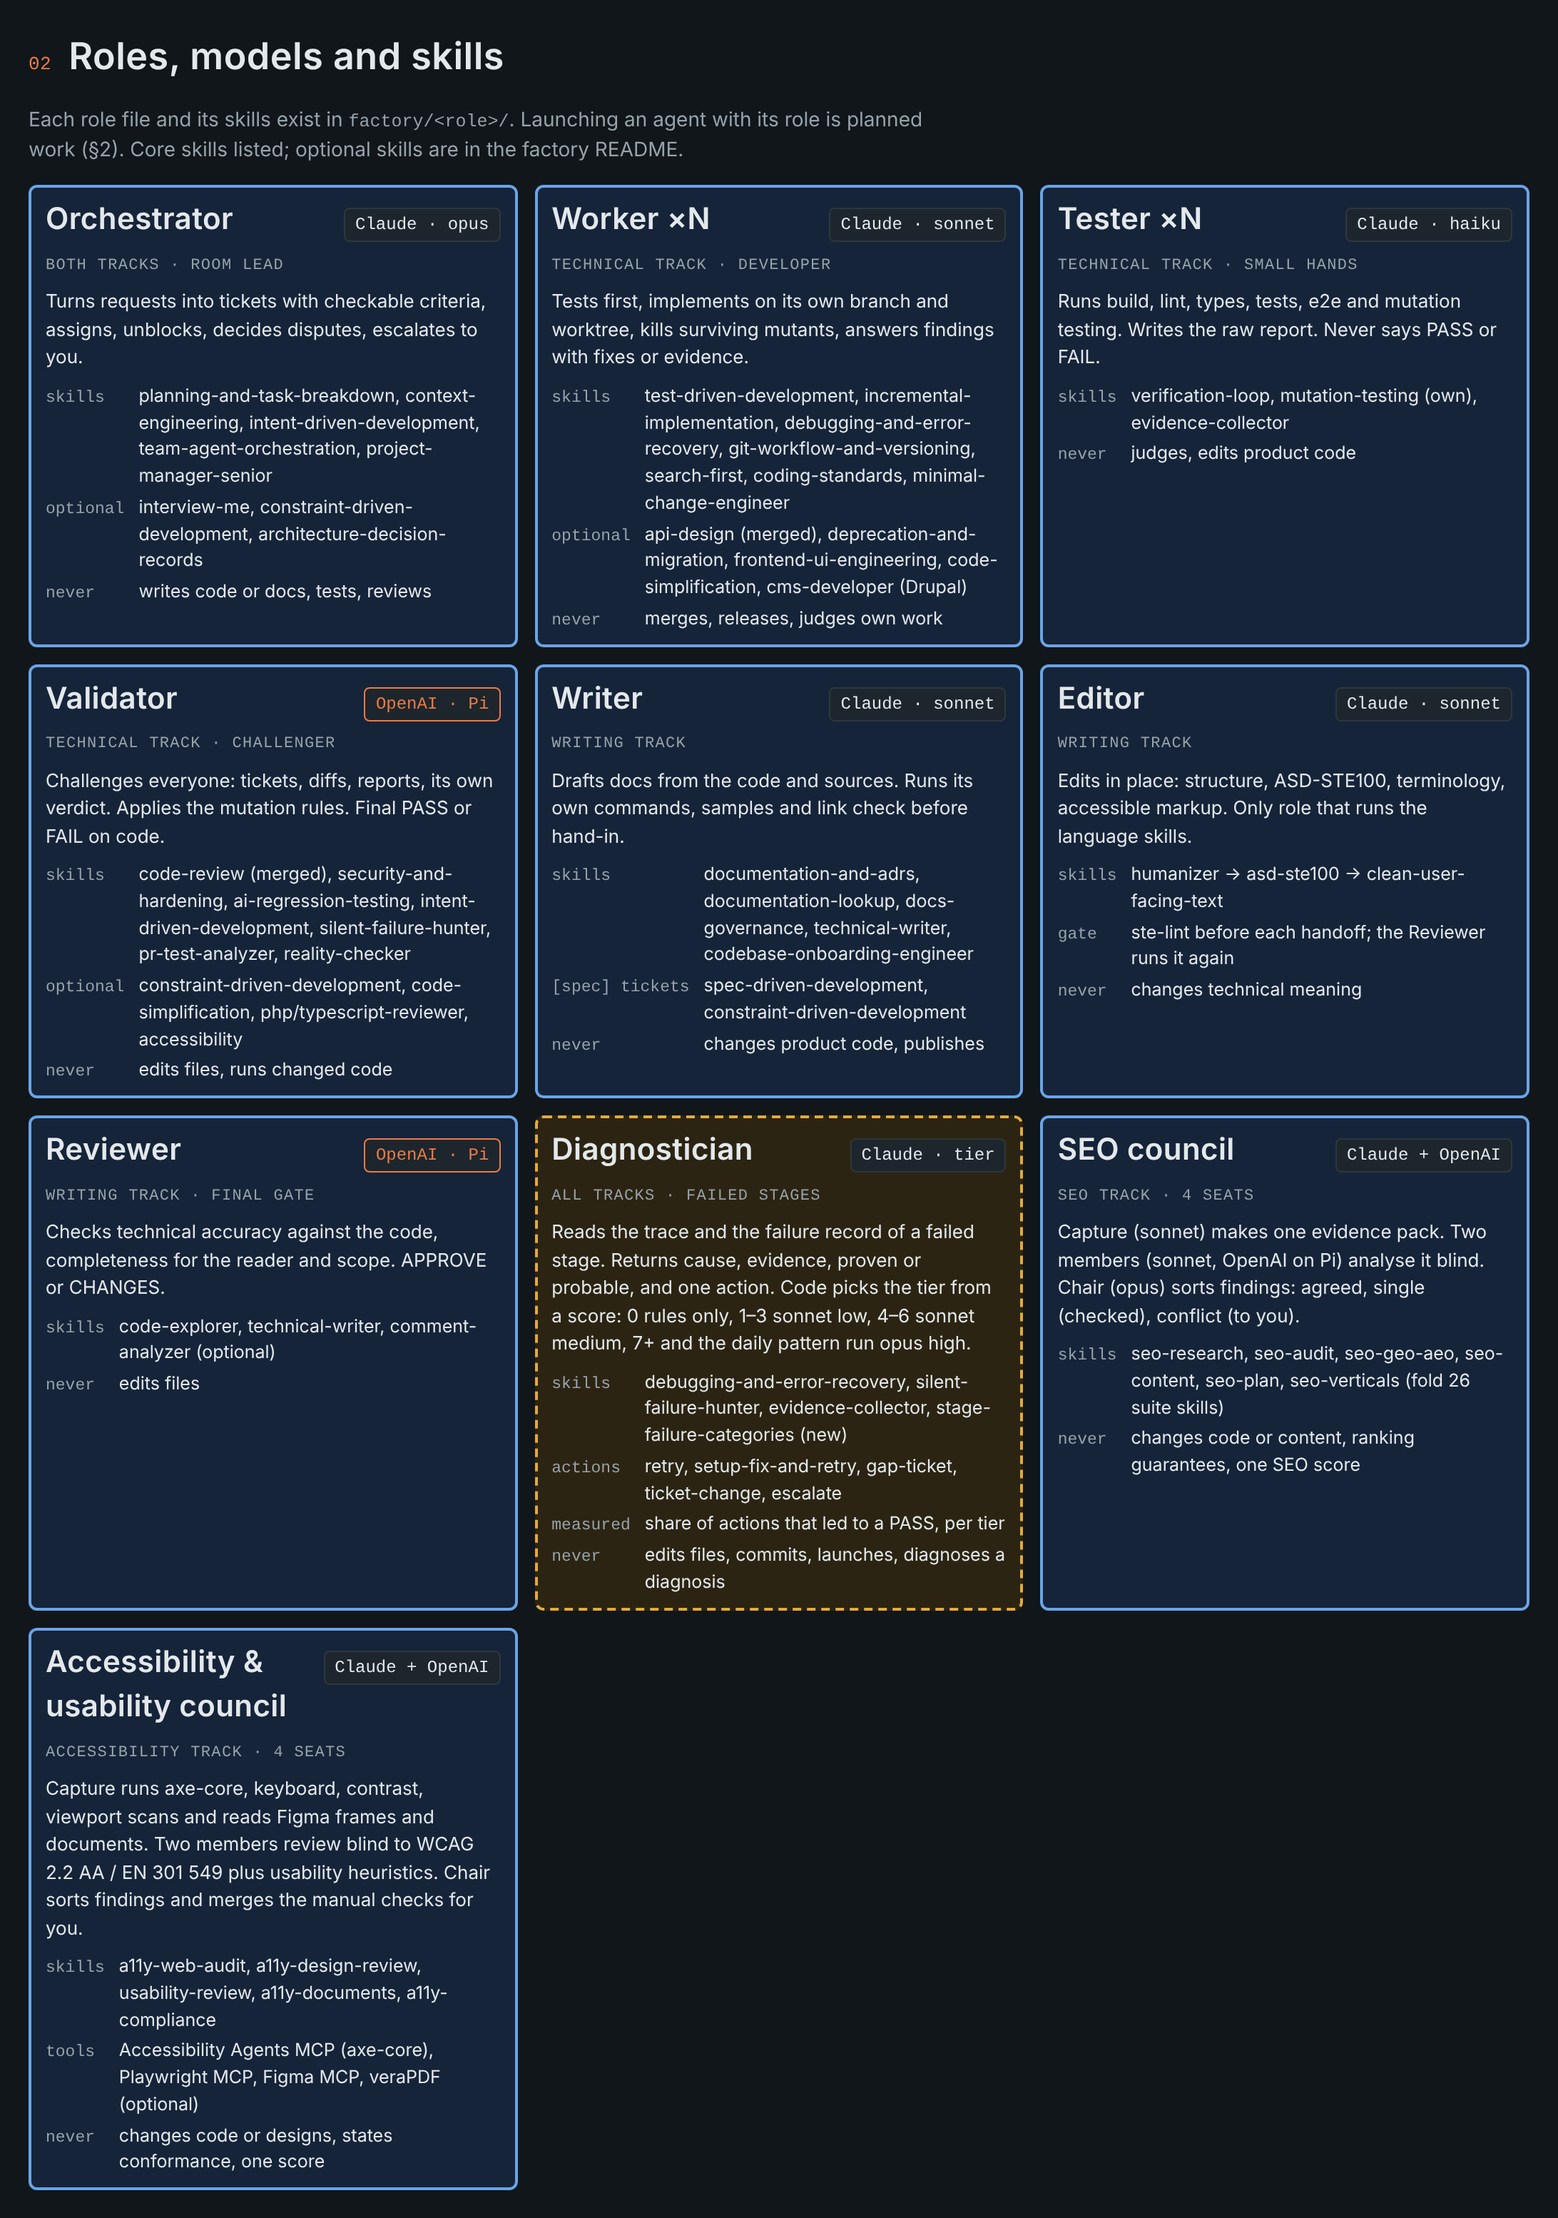
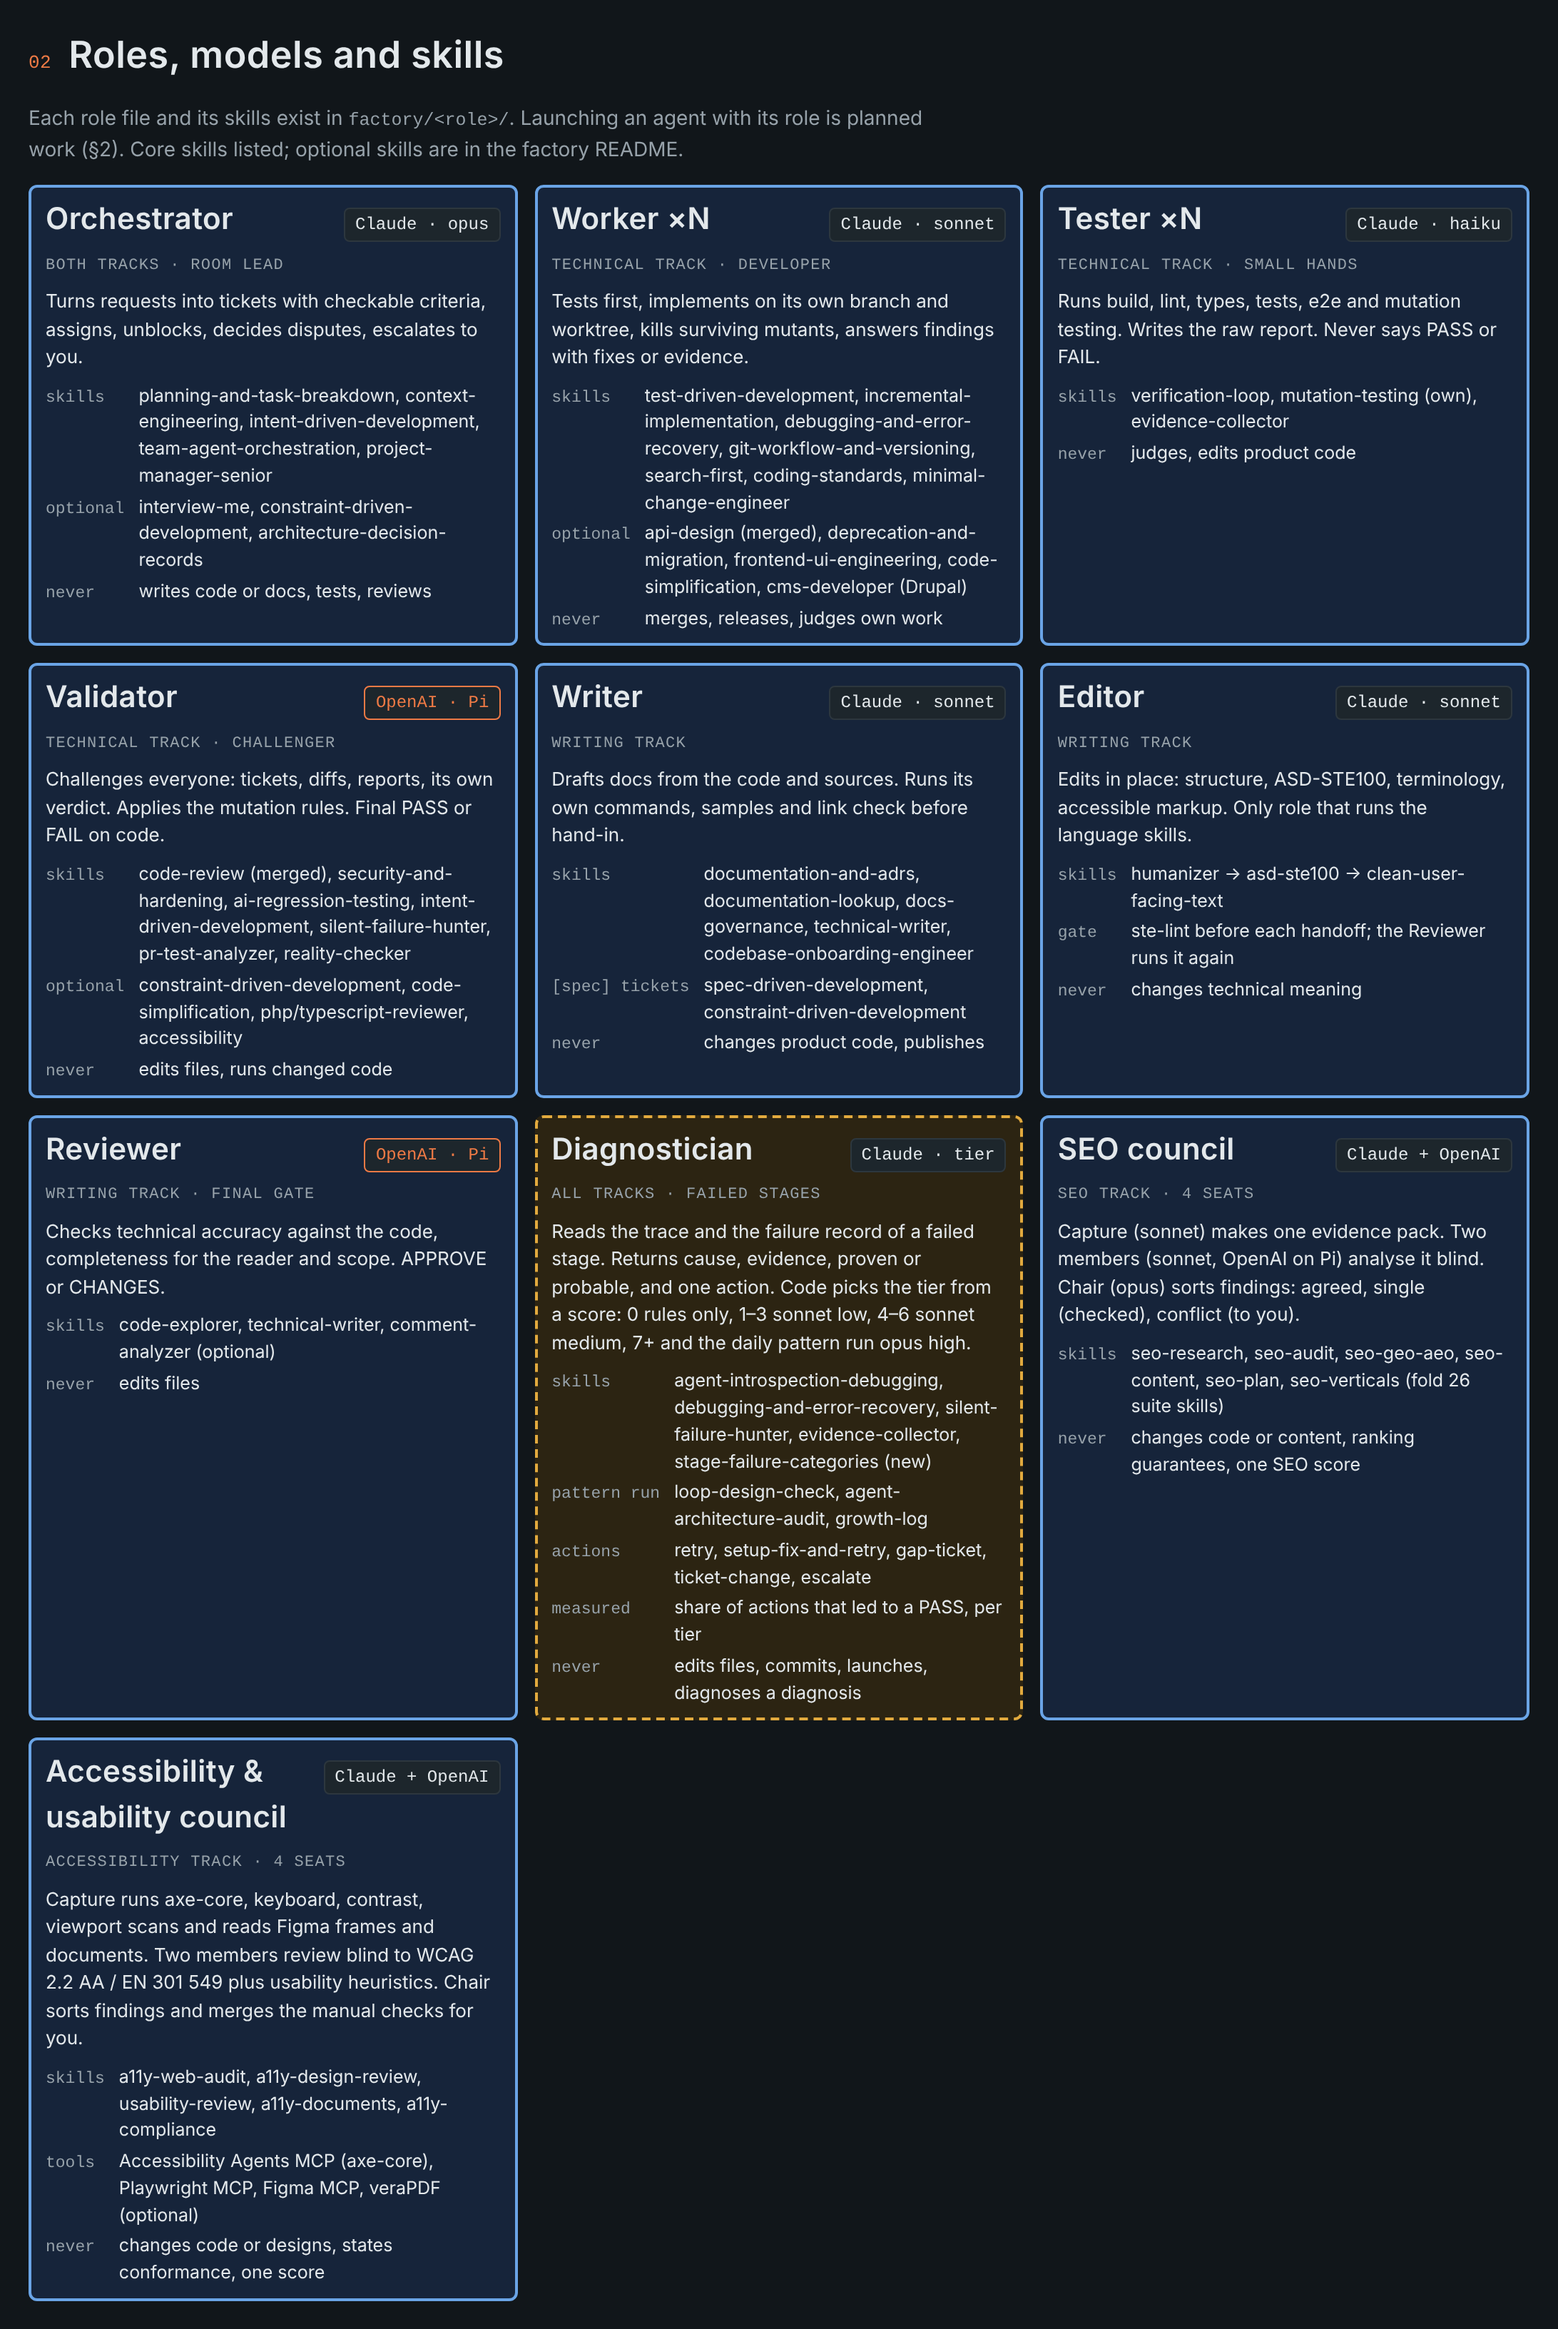
docs(openspec): Diagnostician skills (agent-introspection-debugging core; loop-design-check, agent-architecture-audit, growth-log for the pattern run); map

Changed region(s): [[0.0, 0.0, 0.9963, 0.9987]]

diff --git a/docs/factory-map.html b/docs/factory-map.html
@@ -310,7 +310,8 @@ footer{color:var(--muted);font-size:12.5px;display:grid;gap:4px}
       <div class="head"><h3>Diagnostician</h3><span class="model">Claude · tier</span></div>
       <span class="track">All tracks · failed stages</span>
       <p class="job">Reads the trace and the failure record of a failed stage. Returns cause, evidence, proven or probable, and one action. Code picks the tier from a score: 0 rules only, 1–3 sonnet low, 4–6 sonnet medium, 7+ and the daily pattern run opus high.</p>
-      <dl><dt>skills</dt><dd>debugging-and-error-recovery, silent-failure-hunter, evidence-collector, stage-failure-categories (new)</dd>
+      <dl><dt>skills</dt><dd>agent-introspection-debugging, debugging-and-error-recovery, silent-failure-hunter, evidence-collector, stage-failure-categories (new)</dd>
+      <dt>pattern run</dt><dd>loop-design-check, agent-architecture-audit, growth-log</dd>
       <dt>actions</dt><dd>retry, setup-fix-and-retry, gap-ticket, ticket-change, escalate</dd>
       <dt>measured</dt><dd>share of actions that led to a PASS, per tier</dd>
       <dt>never</dt><dd>edits files, commits, launches, diagnoses a diagnosis</dd></dl>

diff --git a/openspec/changes/stage-diagnosis/tasks.md b/openspec/changes/stage-diagnosis/tasks.md
@@ -43,7 +43,7 @@ Needs `context-pack` task 1.1 (`stage_metrics` table) and 5.1 (metrics writer) b
 
 ## 6. Diagnostician role and diagnosis stage
 
-- [ ] 6.1 [radius high] Role files: `factory/diagnostician/diagnostician.md` (Claude, `disallowedTools: Edit, Write, NotebookEdit, Task, Agent, Bash(git commit:*), Bash(git push:*), Bash(git checkout:*), Bash(git reset:*), Bash(git clean:*), Bash(git restore:*), Bash(git stash:*), Bash(git rebase:*), Bash(git merge:*), Bash(rm:*)`; the body states that these limits are not a sandbox), `first-message.md`; skills `debugging-and-error-recovery` (from worker), `silent-failure-hunter` (from validator), `agency-testing-evidence-collector` (from tester), `stage-failure-categories` (4.6); `factory/README.md` role table → verify: `cargo test --manifest-path src-tauri/Cargo.toml role` (the role file parses; the launch command has every blocked tool and all ten Bash patterns); `rg -n "not a sandbox" factory/diagnostician/diagnostician.md` finds the line
+- [ ] 6.1 [radius high] Role files: `factory/diagnostician/diagnostician.md` (Claude, `disallowedTools: Edit, Write, NotebookEdit, Task, Agent, Bash(git commit:*), Bash(git push:*), Bash(git checkout:*), Bash(git reset:*), Bash(git clean:*), Bash(git restore:*), Bash(git stash:*), Bash(git rebase:*), Bash(git merge:*), Bash(rm:*)`; the body states that these limits are not a sandbox), `first-message.md`; core skills `agent-introspection-debugging` (new, ECC: copy with the source note and license; add a note at the top of its "Recovery Action" phase: the Diagnostician does not apply a recovery, it names one action from the action list and code runs it), `debugging-and-error-recovery` (from worker), `silent-failure-hunter` (from validator), `agency-testing-evidence-collector` (from tester), `stage-failure-categories` (4.6); pattern-run skills `loop-design-check`, `agent-architecture-audit`, `growth-log` (new, ECC, same copy rule; the pattern run's first message names them, a single diagnosis does not); `factory/README.md` role table → verify: `cargo test --manifest-path src-tauri/Cargo.toml role` (the role file parses; the launch command has every blocked tool and all ten Bash patterns); `rg -n "not a sandbox" factory/diagnostician/diagnostician.md` finds the line
 - [ ] 6.2 [radius high] `HUB_ROLES` with `diagnostician`: launch, role limit (default 1), slot names; not in `STAGE_ROLES`; `READ_ONLY_ROLES` has it → verify: `bun test tests/integration/diagnosis-stage.test.ts`: a ticket or a `to_role` handoff with `diagnostician` gets 400 and writes nothing; the worktree of a diagnosis stage refuses a write; `git status` runs in it
 - [ ] 6.3 [radius high] Launch request fields `model` and `effort`, passed as the `LaunchChoice` by `launches.rs`; only diagnosis stages send them → verify: `cargo test --manifest-path src-tauri/Cargo.toml launches` (parse; the claude command has `--model sonnet` and the effort flag); `bun test tests/integration/diagnosis-stage.test.ts` (tier 1, 2, 3 give the right pair; a worker launch has neither)
 - [ ] 6.4 [radius high] Diagnosis stage creation: one for each failure at tier ≥ 1 with no code rule; `review = 'diagnosis'`, `failure_id`, `room`; `MAX_ATTEMPT` 1; no failure record for it; `enqueueLaunch` stays the only queue function → verify: `bun test tests/integration/diagnosis-stage.test.ts`: spec scenarios "Tier 2 failure", "No second diagnosis", "Diagnosis stage times out"; `bun test tests/unit/launch-queue.test.ts` grep still finds one caller path

diff --git a/openspec/changes/stage-diagnosis/specs/stage-diagnosis/spec.md b/openspec/changes/stage-diagnosis/specs/stage-diagnosis/spec.md
@@ -60,11 +60,22 @@ A failure at tier 0 that no code rule matches SHALL get the action `retry` from 
 - **THEN** no diagnosis stage is created and the stage relaunches once
 
 ### Requirement: The Diagnostician is a read-only factory role
-The role `diagnostician` SHALL run on Claude. Its worktree SHALL be read-only, as for the Validator. It SHALL NOT have Edit, Write, NotebookEdit, Task, Agent, or the Bash commands of the blocked list. It SHALL have the skills `debugging-and-error-recovery`, `silent-failure-hunter`, `agency-testing-evidence-collector` and `stage-failure-categories`. A ticket and a `to_role` handoff SHALL NOT name it.
+The role `diagnostician` SHALL run on Claude. Its worktree SHALL be read-only, as for the Validator. It SHALL NOT have Edit, Write, NotebookEdit, Task, Agent, or the Bash commands of the blocked list. It SHALL have the core skills `agent-introspection-debugging`, `debugging-and-error-recovery`, `silent-failure-hunter`, `agency-testing-evidence-collector` and `stage-failure-categories`. A ticket and a `to_role` handoff SHALL NOT name it.
 
 #### Scenario: Launch flags
 - **WHEN** the hub launches a diagnosis stage
 - **THEN** the launch command blocks Edit, Write, NotebookEdit, Task, Agent and each Bash command of the blocked list
+
+### Requirement: The pattern run has three more skills
+The role SHALL also have the skills `loop-design-check`, `agent-architecture-audit` and `growth-log`. The first message of a pattern run SHALL tell the Diagnostician to use them. The first message of a single diagnosis SHALL NOT name them.
+
+#### Scenario: Pattern-run skills
+- **WHEN** the hub writes the first message of a pattern run
+- **THEN** it names `loop-design-check`, `agent-architecture-audit` and `growth-log`, and the first message of a single diagnosis names none of them
+
+#### Scenario: The Diagnostician names the action, code runs it
+- **WHEN** the skill `agent-introspection-debugging` describes a recovery action
+- **THEN** the Diagnostician's result names one action from the action list, and the Diagnostician does not run it
 
 ### Requirement: The Diagnostician's Bash commands have a blocked list
 The launch SHALL block `git commit`, `git push`, `git checkout`, `git reset`, `git clean`, `git restore`, `git stash`, `git rebase`, `git merge` and `rm` as Bash commands. The blocked list and the read-only worktree are limits, not a sandbox: Bash can still write through other commands. The role file and `docs/rules/` SHALL state this.
